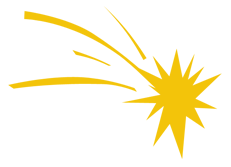
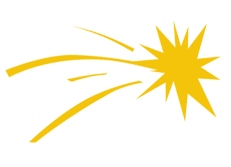
Kometos trajektorija ir greiciai

Changed region(s): [[0.0, 0.0599, 0.9697, 0.9581], [0.4848, 0.0898, 0.5455, 0.1796], [0.4545, 0.0299, 0.4848, 0.0898]]

diff --git a/js/script.js b/js/script.js
@@ -29,14 +29,15 @@ $(window).load(function() {
 		},
 		comet: {
 			when: 2500,
-			fadeInSpeed: 800,
-			moveDuration:2500,
-			moveExp: 4,
-			fadeOutSpeed:1200,
+			interval: 10000,
+			fadeInSpeed: 1000,
+			moveDuration:4500,
+			moveInterpolator: new CAAT.Interpolator().createExponentialOutInterpolator(2,false),
+			fadeOutSpeed:2000,
 			
 			// comet path ltr
-			startPos: { x:300, y:70 },
-			path: { x0:400,y0:20, x1:900,y1:20, x2:1224,y2:130}
+			startPos: { x:145, y:300 },
+			path: { x0:550,y0:-80, x1:1050,y1:-80, x2:1500,y2:350}
 			// comet path rtl 
 			/*startPos: { x:1324, y:170 },
 			path: { x0:900,y0:20, x1:400,y1:20, x2:300,y2:50 }*/
@@ -341,12 +342,14 @@ function showComet(comet, time, settings) {
 	            addCubicTo( s.path.x0,s.path.y0, s.path.x1,s.path.y1, s.path.x2,s.path.y2 ).
 	            endPath();
     var aPath = new CAAT.PathBehavior().
-            //setAutoRotate(false,true).
+    		setFrameTime(time, s.moveDuration).
+            setAutoRotate(true).
             setPath( path ).
             setInterpolator(
-                new CAAT.Interpolator().createExponentialInInterpolator(s.moveExp,false) );
+                s.moveInterpolator );
                 
 	var aFadeOut = new CAAT.AlphaBehavior().
+			setFrameTime(time+s.moveDuration-s.fadeOutSpeed, s.fadeOutSpeed).
             setValues( 1, 0 ).
             setInterpolator(
                 new CAAT.Interpolator().createExponentialInInterpolator(
@@ -356,19 +359,19 @@ function showComet(comet, time, settings) {
           
             
     // linking animations between them selves
-    aFadeIn.addListener({
+    /*aFadeIn.addListener({
         behaviorExpired : function(behavior, time, actor) {
             aPath.setFrameTime(time, s.moveDuration);
-        }});
-    aPath.addListener({
+        }});*/
+    /*aPath.addListener({
         behaviorExpired : function(behavior, time, actor) {
             aFadeOut.setFrameTime(time, s.fadeOutSpeed);
-        }});        
+        }});*/        
         
     // linking animations to the comet
+	comet.addBehavior( aPath );
 	comet.addBehavior( aFadeIn );
 	comet.addBehavior( aFadeOut );
-	comet.addBehavior( aPath );
 
         /*.set
             setImage(director.getImage('comet')).

diff --git a/README.md b/README.md
@@ -3,10 +3,11 @@ To-Do List
 
 Antanas
 -------
-1. Hohoho senio burnos judėjimas (Kartu su 2.)
-2. Muzika (Compatibility pataisytas, reikia garsų ir timingų) 
-3. Kometa 
-4. Lemputes (DONE)
+1. Garsai compatibility (DONE)
+2. Muzikos ir sveikinimo timing'ai (Užklausta)
+3. Hohoho senio burnos judėjimas (Kartu su 2.) 
+4. Kometa  (DONE)
+5. Lemputes (DONE)
 
 Ambu
 ----
